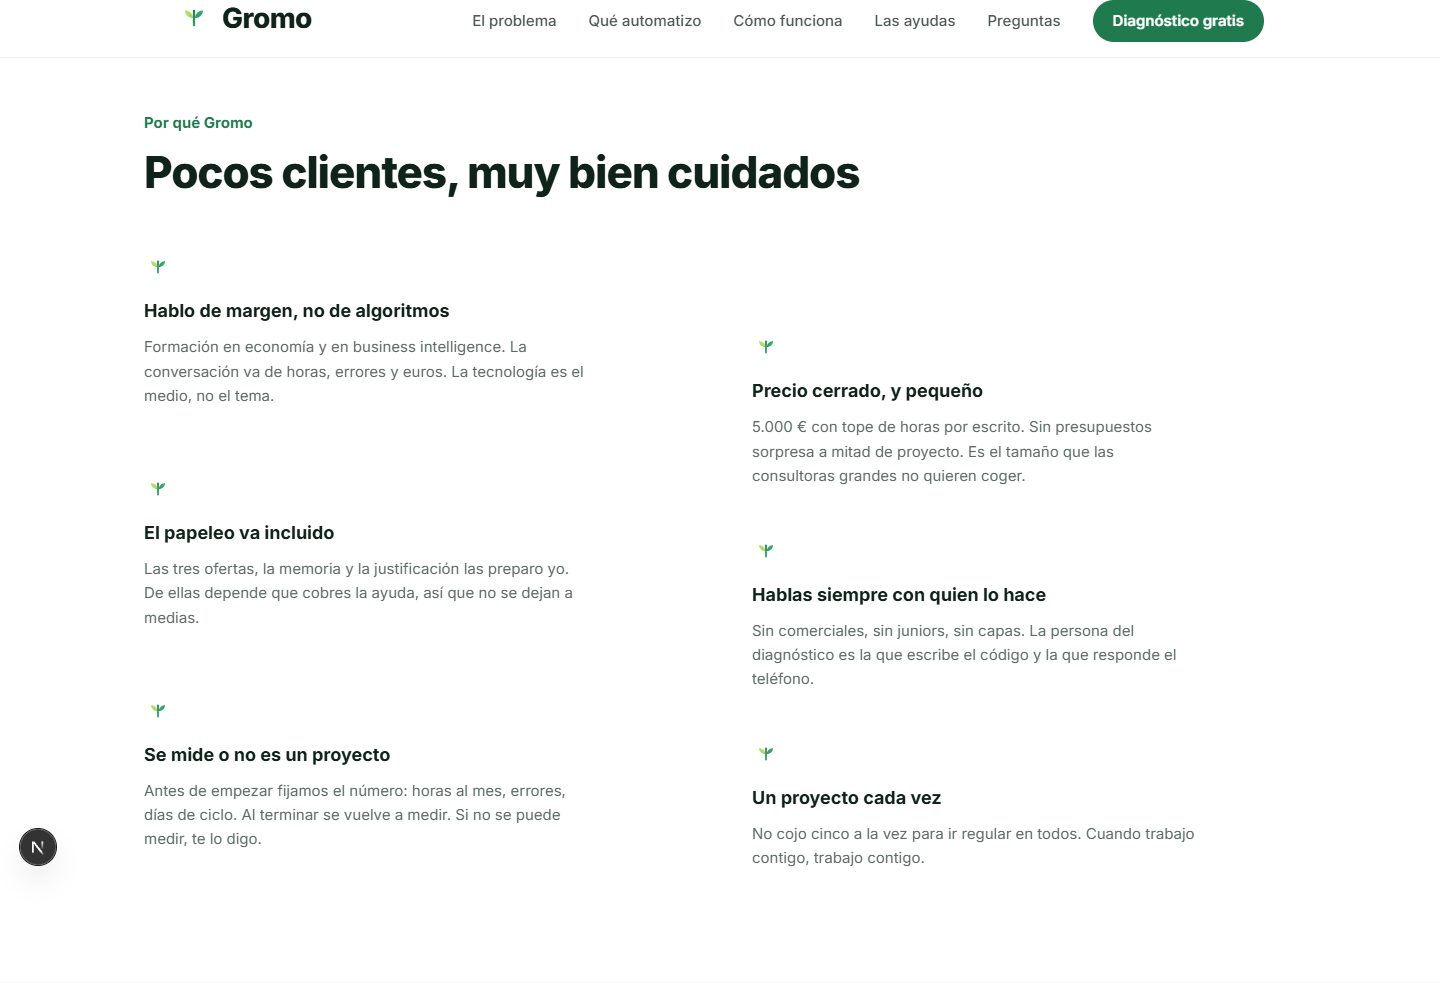
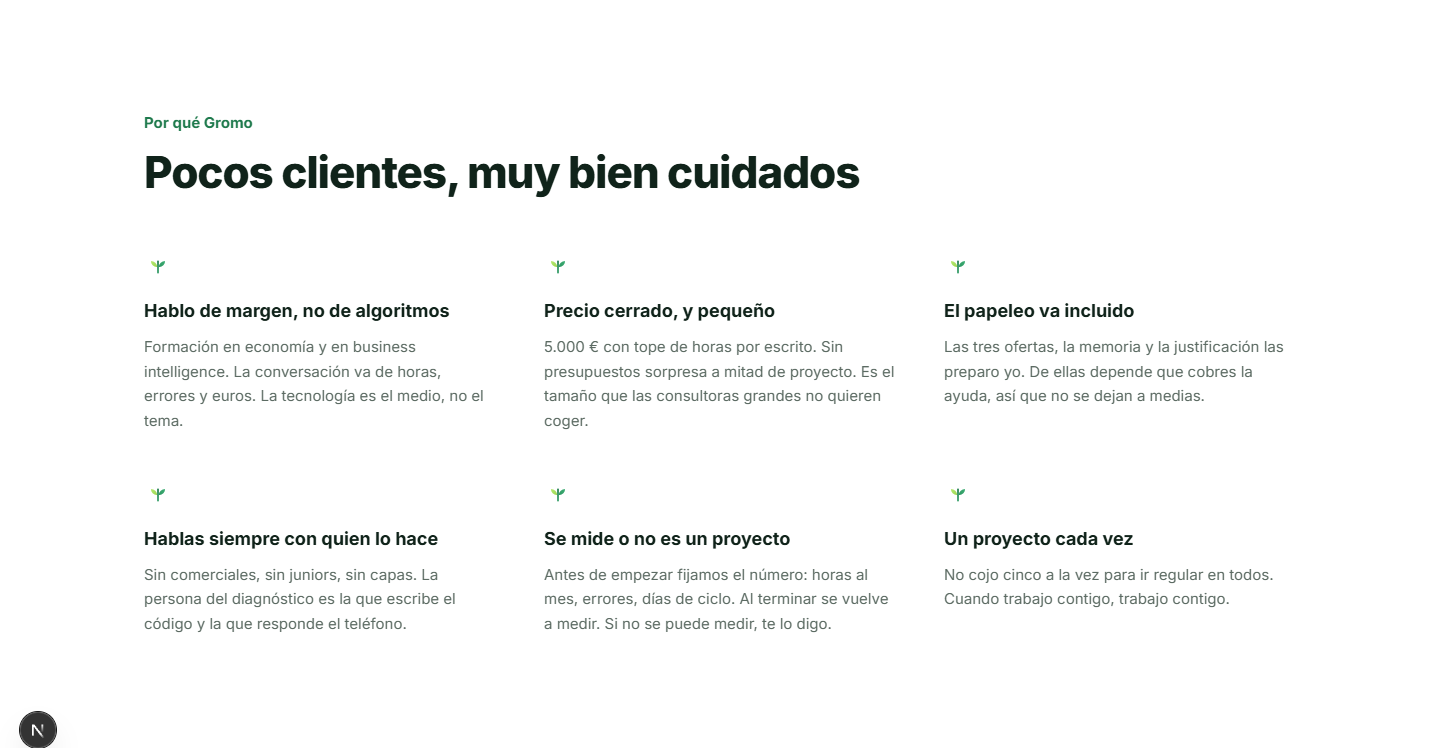
fix(por-que): alinea la rejilla y anade el handoff de auditoria
La seccion llevaba las dos columnas desfasadas buscando asimetria. El
desnivel hacia que ninguna fila casara con la de al lado, asi que se leia
como un fallo de maquetacion y no como una decision. Ahora es una sola
lista en rejilla de 3x2: los iconos, los titulos y los textos quedan a la
misma altura aunque cambie la longitud.

La variacion de ritmo de la pagina la siguen aportando el problema
(editorial), los servicios (destacado mas lista) y las ayudas
(calculadora). Esta seccion gana estando ordenada.

Anade HANDOFF-AUDITORIA.md: documento para el agente que continue, con las
fuentes de verdad, las reglas que no se pueden romper, las skills de
antislop instaladas, las webs de referencia y que se tomo de ellas, las
herramientas de verificacion, lo ya comprobado, lo que merece auditarse y
las trampas del entorno.

diff --git a/src/components/sections/PorQue.tsx b/src/components/sections/PorQue.tsx
@@ -4,14 +4,18 @@ import { Revelar } from "@/components/ui/revelar";
 import { PORQUE } from "@/lib/contenido";
 
 /**
- * Dos columnas desfasadas: la derecha baja un poco respecto a la izquierda.
- * Ese desnivel evita la cuadrícula perfecta y hace que la vista recorra la
- * sección en zigzag en vez de leerla como una tabla.
+ * Rejilla alineada, de una sola lista.
+ *
+ * Hubo una versión con las dos columnas desfasadas buscando asimetría, pero el
+ * desnivel hacía que ninguna fila casara con la de al lado y se leía como un
+ * fallo de maquetación, no como una decisión. La variación de ritmo de la
+ * página ya la aportan el problema (editorial), los servicios (destacado más
+ * lista) y las ayudas (calculadora); esta sección gana estando ordenada.
+ *
+ * Con un único <ul> en rejilla, las filas se alinean solas aunque los textos
+ * tengan distinta longitud.
  */
 export function PorQue() {
-  const izquierda = PORQUE.items.filter((_, i) => i % 2 === 0);
-  const derecha = PORQUE.items.filter((_, i) => i % 2 === 1);
-
   return (
     <section
       id="por-que"
@@ -23,44 +27,26 @@ export function PorQue() {
           <Titulo>{PORQUE.titulo}</Titulo>
         </Revelar>
 
-        <div className="mt-14 grid gap-x-16 gap-y-12 sm:grid-cols-2">
-          <ul className="grid gap-12">
-            {izquierda.map((i, n) => (
-              <Punto key={i.titulo} {...i} retraso={n * 120} />
-            ))}
-          </ul>
-          <ul className="grid gap-12 sm:mt-20">
-            {derecha.map((i, n) => (
-              <Punto key={i.titulo} {...i} retraso={n * 120 + 60} desde="derecha" />
-            ))}
-          </ul>
-        </div>
+        <ul className="mt-14 grid gap-x-12 gap-y-12 sm:grid-cols-2 lg:grid-cols-3">
+          {PORQUE.items.map((i, n) => (
+            <Revelar
+              as="li"
+              key={i.titulo}
+              retraso={(n % 3) * 100}
+              className="group"
+            >
+              <GromoSymbol
+                decorative
+                className="size-7 transition-transform duration-500 group-hover:-translate-y-1"
+              />
+              <h3 className="mt-4 text-lg font-bold">{i.titulo}</h3>
+              <p className="mt-2.5 text-[15px] leading-relaxed text-gromo-gris">
+                {i.texto}
+              </p>
+            </Revelar>
+          ))}
+        </ul>
       </div>
     </section>
-  );
-}
-
-function Punto({
-  titulo,
-  texto,
-  retraso,
-  desde = "abajo",
-}: {
-  titulo: string;
-  texto: string;
-  retraso: number;
-  desde?: "abajo" | "derecha";
-}) {
-  return (
-    <Revelar as="li" retraso={retraso} desde={desde} className="group">
-      <GromoSymbol
-        decorative
-        className="size-7 transition-transform duration-500 group-hover:-translate-y-1"
-      />
-      <h3 className="mt-4 text-lg font-bold">{titulo}</h3>
-      <p className="mt-2.5 max-w-md text-[15px] leading-relaxed text-gromo-gris">
-        {texto}
-      </p>
-    </Revelar>
   );
 }

diff --git a/HANDOFF-AUDITORIA.md b/HANDOFF-AUDITORIA.md
@@ -1,0 +1,248 @@
+# Handoff para auditoría — web de Gromo
+
+> Para el agente que audite este proyecto. Todo lo de aquí está verificado contra
+> el repositorio; si algo no cuadra con lo que encuentres, manda el código.
+>
+> Estado: **funcionalmente terminada, sin publicar a propósito.**
+> Última sesión: 10 commits, desde `8351380` hasta `8c4ac4f`.
+
+---
+
+## 1. Qué es esto
+
+Landing de una página para **Gromo**, estudio unipersonal de automatización de
+procesos e IA para pymes no tecnológicas en España. El fundador es economista con
+máster en Business Intelligence, trabaja por cuenta ajena y montará esto como
+autónomo en pluriactividad. Aún **no tiene clientes ni alta fiscal**.
+
+Producto que vende la web: proyecto de 60 horas tope por 5.000 € + IVA, del que
+las ayudas autonómicas a la digitalización cubren entre el 50 % y el 80 %.
+
+**Pila:** Next.js 16 (App Router), React 19, TypeScript estricto, Tailwind v4.
+Node >= 24. Sin dependencias de animación ni de UI más allá de shadcn.
+
+---
+
+## 2. Arranque
+
+```bash
+npm install
+npm run dev          # http://localhost:3000
+npm run check        # lint + typecheck + build. Debe pasar limpio.
+```
+
+Rutas: `/` (landing), `/aviso-legal`, `/privacidad`, `/cookies`, `/marca`
+(página interna de comprobación de marca, no forma parte de la web pública).
+
+---
+
+## 3. Fuentes de verdad (leer antes de tocar nada)
+
+| Archivo | Qué manda |
+|---|---|
+| `docs/brand/GROMO-BRIEF.md` | Paleta, tipografía, restricciones honestas. **Tiene prioridad sobre cualquier default.** |
+| `src/lib/contenido.ts` | **Todos** los textos de la web, centralizados. Editar aquí, nunca en los componentes. |
+| `../MARCA.md` | Valores, ICP, propuesta de valor, tono. |
+| `../EMBUDO-VENTAS.md` | Guion de venta, objeciones (origen de la sección de preguntas), números. |
+| `../logo/HANDOFF-GROMO.md` | Especificación del símbolo y la tipografía. |
+| `../INDICE.md` | Estado global del negocio y pendientes del fundador. |
+
+---
+
+## 4. Reglas que no se pueden romper
+
+Estas no son preferencias de estilo. Romper cualquiera es un fallo de entrega.
+
+1. **Nunca escribir "5.000 €" sin decir en la misma frase lo que queda con
+   ayuda.** Es la regla de oro del embudo de venta del fundador.
+2. **Cero prueba social fabricada.** No hay clientes todavía: nada de casos de
+   éxito, logos, testimonios, cifras agregadas ("+50 proyectos") ni años de
+   experiencia inflados. El valor número uno de la marca es no vender humo;
+   contradecirlo en la propia home sería el error más caro posible.
+3. **Sin nombre propio ni foto del fundador.** Decisión suya por discreción
+   laboral: su empresa actual no debe encontrarle. La marca habla, la persona no.
+   Las preguntas frecuentes ya responden a "¿quién está detrás?" sin identificarle.
+4. **La web no debe indexarse** mientras `LEGAL.titular === "PENDIENTE"` en
+   `contenido.ts`. `src/app/robots.ts` lo bloquea automáticamente. Publicar una
+   web comercial española sin identificar al prestador incumple la LSSI-CE.
+5. **Ámbito nacional.** El gancho de las ayudas va por tramos (50-80 %), nunca
+   prometiendo un porcentaje concreto, porque ADER e IGAPE son autonómicas.
+6. **El wordmark "Gromo" es texto vivo en Inter 800**, jamás una imagen.
+
+---
+
+## 5. La pasada de antislop (lo más relevante para auditar)
+
+El fundador dijo que la web "cantaba demasiado a IA". Se instalaron las skills de
+**[anti-slop](https://github.com/miqdadbadjuber/anti-slop)** (MIT) copiando las
+carpetas a `.claude/skills/`:
+
+```
+.claude/skills/antislop/              núcleo: 38 reglas, tres niveles, Delivery Gate
+.claude/skills/antislop-ui/           color, layout, componentes, decoración, movimiento
+.claude/skills/antislop-copywriting/  titulares, CTA, tono, patrones de texto generado
+.claude/skills/antislop-layoutmobile/ reflujo, breakpoints, desbordamiento
+```
+
+Son skills del estándar abierto de Agent Skills (`<nombre>/SKILL.md`), así que
+las lee cualquier agente compatible. **Léelas antes de auditar**, en especial
+`antislop-ui/SKILL.md` y el Delivery Gate del núcleo (`antislop/SKILL.md`, busca
+"Delivery Gate (Mandatory)").
+
+### Design Read declarado
+
+> Landing de servicio B2B para dueños de pyme no técnicos, lenguaje visual
+> sobrio-orgánico derivado del motivo Brote, dial **ENERGY 2 / RHYTHM 2 / MOTION 2**.
+
+La coherencia con estos diales es auditable: MOTION 2 significa revelado al hacer
+scroll y transiciones, **nunca bucles perpetuos**. Si encuentras un bucle
+infinito, es un fallo contra el dial declarado.
+
+### Correcciones que ya exigió (no reintroducirlas)
+
+| Regla | Qué se quitó |
+|---|---|
+| R-06 | Antetítulos en mayúsculas con tracking ancho ("EL PROBLEMA") |
+| R-01 | Dos orbes desenfocados de fondo |
+| R-19, R-31 | Punto pulsante en el hero que no marcaba ningún estado |
+| R-19 | Cinta de procesos en bucle infinito |
+| R-09 | Cápsula decorativa del hero |
+| R-08 | Flecha en el botón principal |
+| R-14 | Seis tarjetas de servicios idénticas, sin jerarquía |
+| R-02 | Rayas largas en texto visible |
+| R-03 | Revelado lateral que sacaba 12 px por el borde en móvil |
+
+También se retiró un filete corto que precedía a cada antetítulo: repetido ocho
+veces dejaba de leerse como motivo de marca y pasaba a leerse como tic.
+
+---
+
+## 6. Referencias de contenido y estructura
+
+El fundador aportó cuatro webs de agencias españolas **como inspiración de
+estructura, no de contenido**:
+
+- `https://ponteclick.com/`
+- `https://artenova.es/`
+- `https://visualpublinet.com/`
+- `https://www.signumcomunicacion.com/agencia-de-diseno-web/`
+
+Capturas en `docs/design-references/referencias/`, generadas con
+`node scripts/capturar-referencias.mjs`.
+
+**Lo que se tomó de ellas:** el patrón de titular grande que dice qué haces, para
+quién y dónde; el uso de un color ácido como acento sobre fondo neutro; y páginas
+largas alternando bloques claros y oscuros.
+
+**Lo que no se tomó, y no debe tomarse:** ni un texto, ni una imagen, ni un
+color, ni un logo, ni un caso. La paleta y la tipografía salen del handoff de
+marca del fundador; los textos salen de sus propios documentos de venta.
+
+Regla operativa en `docs/brand/GROMO-BRIEF.md` §0: de la referencia, el
+esqueleto; de Gromo, la identidad.
+
+### Sobre hyperframes
+
+Se evaluó `https://github.com/heygen-com/hyperframes` a petición del fundador
+creyendo que daba dinamismo a la web. **No sirve para eso:** convierte HTML en
+vídeos MP4. No se instaló. Encaja, en cambio, con la "demo de 60 segundos"
+pendiente en el kit de venta (`../INDICE.md`, pendiente 4).
+
+---
+
+## 7. Herramientas de verificación ya escritas
+
+Todas usan `playwright-core` contra el Chrome del sistema (no descargan
+navegador). Requieren el servidor de desarrollo levantado.
+
+| Script | Para qué |
+|---|---|
+| `capturar-web.mjs` | Capturas a 1440 y 390, más recorte de cada sección. Informa del desbordamiento horizontal. |
+| `buscar-desborde.mjs [ancho]` | Localiza **qué elemento concreto** se sale de pantalla. |
+| `revisar-consola.mjs` | Errores y avisos de consola en las cuatro rutas públicas. |
+| `probar-paralaje.mjs` | Comprueba que el hero responde al puntero de verdad. |
+| `auditar-antetitulos.mjs` | Localiza y recorta un motivo repetido para juzgarlo en conjunto. |
+| `capturar-referencias.mjs` | Reconocimiento de las webs de referencia. |
+| `capturar-marca.mjs`, `render-simbolo.mjs`, `identificar-tipografia.mjs` | Verificación del logo y la tipografía. |
+
+**Nota sobre las capturas:** la entrada del hero dura ~2,8 s y el revelado de
+sección 700 ms más escalonado. Los scripts ya esperan lo suficiente. Si capturas
+por tu cuenta antes de tiempo verás elementos a medio aparecer y parecerán fallos
+de opacidad que no existen.
+
+---
+
+## 8. Estado verificado en el último commit
+
+- `npm run check` pasa limpio: lint, TypeScript estricto y build de 9 rutas.
+- **Cero** errores y avisos de consola en `/`, `/aviso-legal`, `/privacidad`, `/cookies`.
+- **Cero** desbordamiento horizontal a 1440 px y a 390 px.
+- Paralaje del hero medido: las variables recorren −0,8 a +0,8 y la capa del
+  brote se desplaza 12 px.
+
+---
+
+## 9. Qué merece la pena auditar
+
+Por orden de valor:
+
+1. **Delivery Gate completo de antislop** (los cuatro bloques). Es lo que el
+   fundador pidió y lo que ninguna de mis pasadas ha ejecutado de forma
+   exhaustiva: yo apliqué `antislop-ui` y partes del núcleo, no el gate entero.
+2. **`antislop-copywriting` sobre `src/lib/contenido.ts`.** Los textos no han
+   pasado por esa skill. Es donde más probable es que quede tono de IA.
+3. **Contraste WCAG AA** en los bloques sobre tinta `#10231A`. El verde
+   `#35A06A` no alcanza AA para texto pequeño sobre ese fondo, por eso en oscuro
+   manda el lima `#A8E063`. Conviene comprobar que no se coló ningún texto
+   pequeño en verde sobre oscuro.
+4. **Navegación por teclado completa**: foco visible, enlace de salto, menú
+   móvil, acordeón de preguntas, selector de cobertura de la calculadora.
+5. **El formulario sin clave configurada.** Comprobar que dice honestamente que
+   no está conectado en vez de fingir un envío correcto
+   (`src/app/actions/contacto.ts`).
+
+---
+
+## 10. Trampas del entorno (me costaron tiempo)
+
+1. **PowerShell 5.1 destroza los acentos.** `Get-Content` lee UTF-8 como
+   Windows-1252 y `Set-Content -Encoding utf8` añade BOM. Un reemplazo masivo así
+   corrompió seis archivos ("administración" → "administraciÃ³n") y hubo que
+   repararlos convirtiendo los bytes de vuelta y quitando un byte suelto.
+   **No edites archivos con acentos desde PowerShell.** Usa las herramientas de
+   edición del agente.
+2. **Un módulo `"use server"` solo puede exportar funciones asíncronas.**
+   Exportar una constante desde ahí la deja en `undefined` en el cliente y el
+   build revienta en el prerenderizado. Por eso el estado inicial del formulario
+   vive en `src/lib/contacto.ts` y no junto a la acción.
+3. **Los here-strings de PowerShell se rompen** con comillas dobles dentro. Para
+   los mensajes de commit, usa `git commit -F fichero`.
+4. Este Next.js trae cambios de API respecto a lo memorizado. La documentación
+   está en `node_modules/next/dist/docs/`; consúltala antes de escribir.
+
+---
+
+## 11. Pendiente, y por qué no lo puedo cerrar yo
+
+Depende de decisiones y cuentas del fundador:
+
+1. Registrar `gromo.es` y crear `hola@gromo.es`.
+2. Rellenar `LEGAL` en `src/lib/contenido.ts` el día del alta como autónomo.
+   Eso desbloquea la indexación automáticamente.
+3. Clave de Resend en `.env.local` (`RESEND_API_KEY`, opcionalmente
+   `CONTACTO_DESTINO` y `CONTACTO_REMITENTE`).
+4. Imagen de Open Graph 1200×630. Se puede generar desde
+   `public/brand/gromo-simbolo.svg`.
+5. Desplegar (Vercel encaja).
+
+---
+
+## 12. Contexto de negocio que condiciona decisiones
+
+- El fundador dispone de **7,5 h/semana**. Toda propuesta de mantenimiento debe
+  caber ahí.
+- La web **no es el canal de captación**: vende por llamada y email uno a uno.
+  La web sirve para que, cuando le googleen después de la llamada, encuentren
+  algo serio. No optimices para tráfico frío.
+- Hay una convocatoria con fecha límite cercana (Ticket Innova Galicia, cierre
+  30-sep-2026). Si hay que priorizar, prioriza lo que desbloquea publicar.
